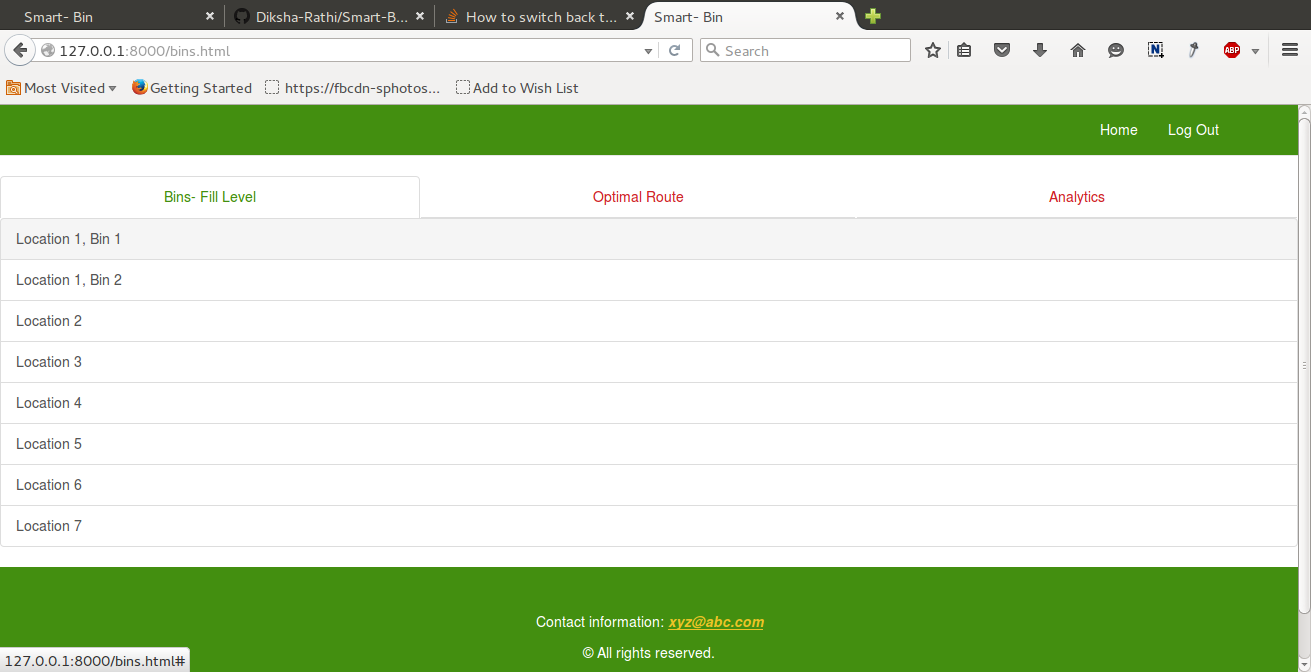
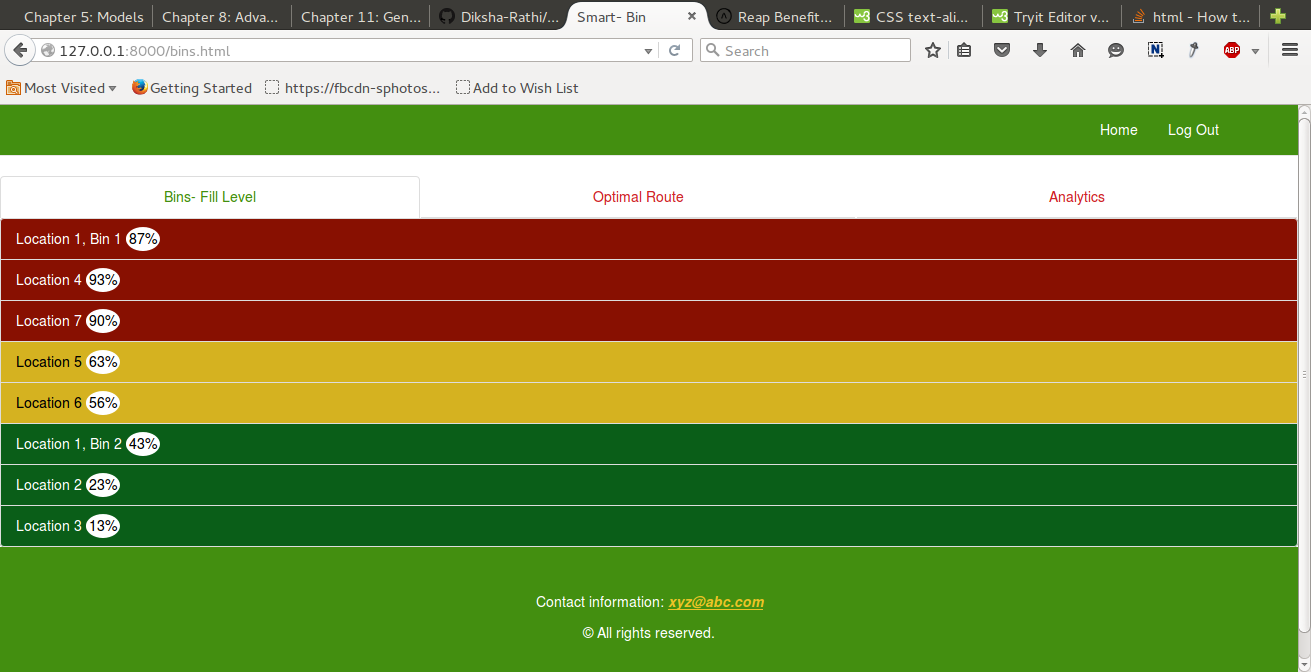
completed bin display on tab 1

diff --git a/templates/bins.html b/templates/bins.html
@@ -9,26 +9,36 @@
 {% block content2 %} 
 
  <div class="list-group">
-  <a href="#" class="list-group-item">Location 1, Bin 1</a>
-  <a href="#" class="list-group-item">Location 1, Bin 2</a>
-  <a href="#" class="list-group-item">Location 2</a>
-  <a href="#" class="list-group-item">Location 3</a>
-  <a href="#" class="list-group-item">Location 4</a>
-  <a href="#" class="list-group-item">Location 5</a>
-  <a href="#" class="list-group-item">Location 6</a>
-  <a href="#" class="list-group-item">Location 7</a>
-</div>
+  <!--Bins with 71- 100% fill level-->
+  {% if result1 %}
+    {% for bin in result1 %}
+      <a href="#" style="background-color: #881001; color: #fff" class="list-group-item">
+        {{ bin.location_id }}{% if bin.bin_id %}, {{ bin.bin_id }}{% endif %}
+        <span class="numberCircle">{{ bin.fill_level }}%</span>
+      </a>
+    {% endfor %}
+  {% endif %}
 
-testing
+  <!--Bins with 51- 70% fill level-->
+  {% if result2 %}
+    {% for bin in result2 %}
+      <a href="#" style="background-color: #D5B220; color: #000" class="list-group-item">
+        {{ bin.location_id }}{% if bin.bin_id %}, {{ bin.bin_id }}{% endif %}
+        <span class="numberCircle">{{ bin.fill_level }}%</span>
+      </a>
+    {% endfor %}
+  {% endif %}
 
-{% if result %}
-    <ul>
-        {% for bin in result %}
-        <li>{{ bin.humidity }}</li>
-        {% endfor %}
-    </ul>
-{% else %}
-    <p>No bins matched your search criteria.</p>
-{% endif %}
+  <!--Bins with 0- 50% fill level-->
+  {% if result3 %}
+    {% for bin in result3 %}
+      <a href="#" style="background-color: #0A5E18; color: #fff"class="list-group-item">
+        {{ bin.location_id }}{% if bin.bin_id %}, {{ bin.bin_id }}{% endif %}
+        <span class="numberCircle">{{ bin.fill_level }}%</span>
+      </a>
+    {% endfor %}
+  {% endif %}
+</div><!--end list-group-->
+
 
 {% endblock %}

diff --git a/static/css/bootstrap.css b/static/css/bootstrap.css
@@ -5307,7 +5307,7 @@ a.thumbnail.active {
 }
 .list-group {
   padding-left: 0;
-  margin-bottom: 20px;
+  margin-bottom: 0px;
 }
 .list-group-item {
   position: relative;
@@ -6845,4 +6845,15 @@ button.close {
   .footer-basic-centered a{
     line-height: 1.8;
   }
+}
+
+/* My css */
+.numberCircle {
+    border-radius: 50%;
+    width: 16px;
+    height: 16px;
+    padding: 3px;
+    background: #fff;
+    color: #000;
+    text-align: center;
 }

diff --git a/bins/views.py b/bins/views.py
@@ -1,6 +1,9 @@
 from django.shortcuts import render
+from bins.models import *
 
 # Create your views here.
 def bins(request):
-	result = bin_info.objects.filter(location_id='Location 1')
-        return render(request, 'bins.html',{'result': result})
+	result1 = bin_info.objects.filter(fill_level__range=(71, 100))
+	result2 = bin_info.objects.filter(fill_level__range=(51, 70))
+	result3 = bin_info.objects.filter(fill_level__range=(0, 50))
+	return render(request, 'bins.html',{'result1': result1, 'result2': result2, 'result3': result3})
